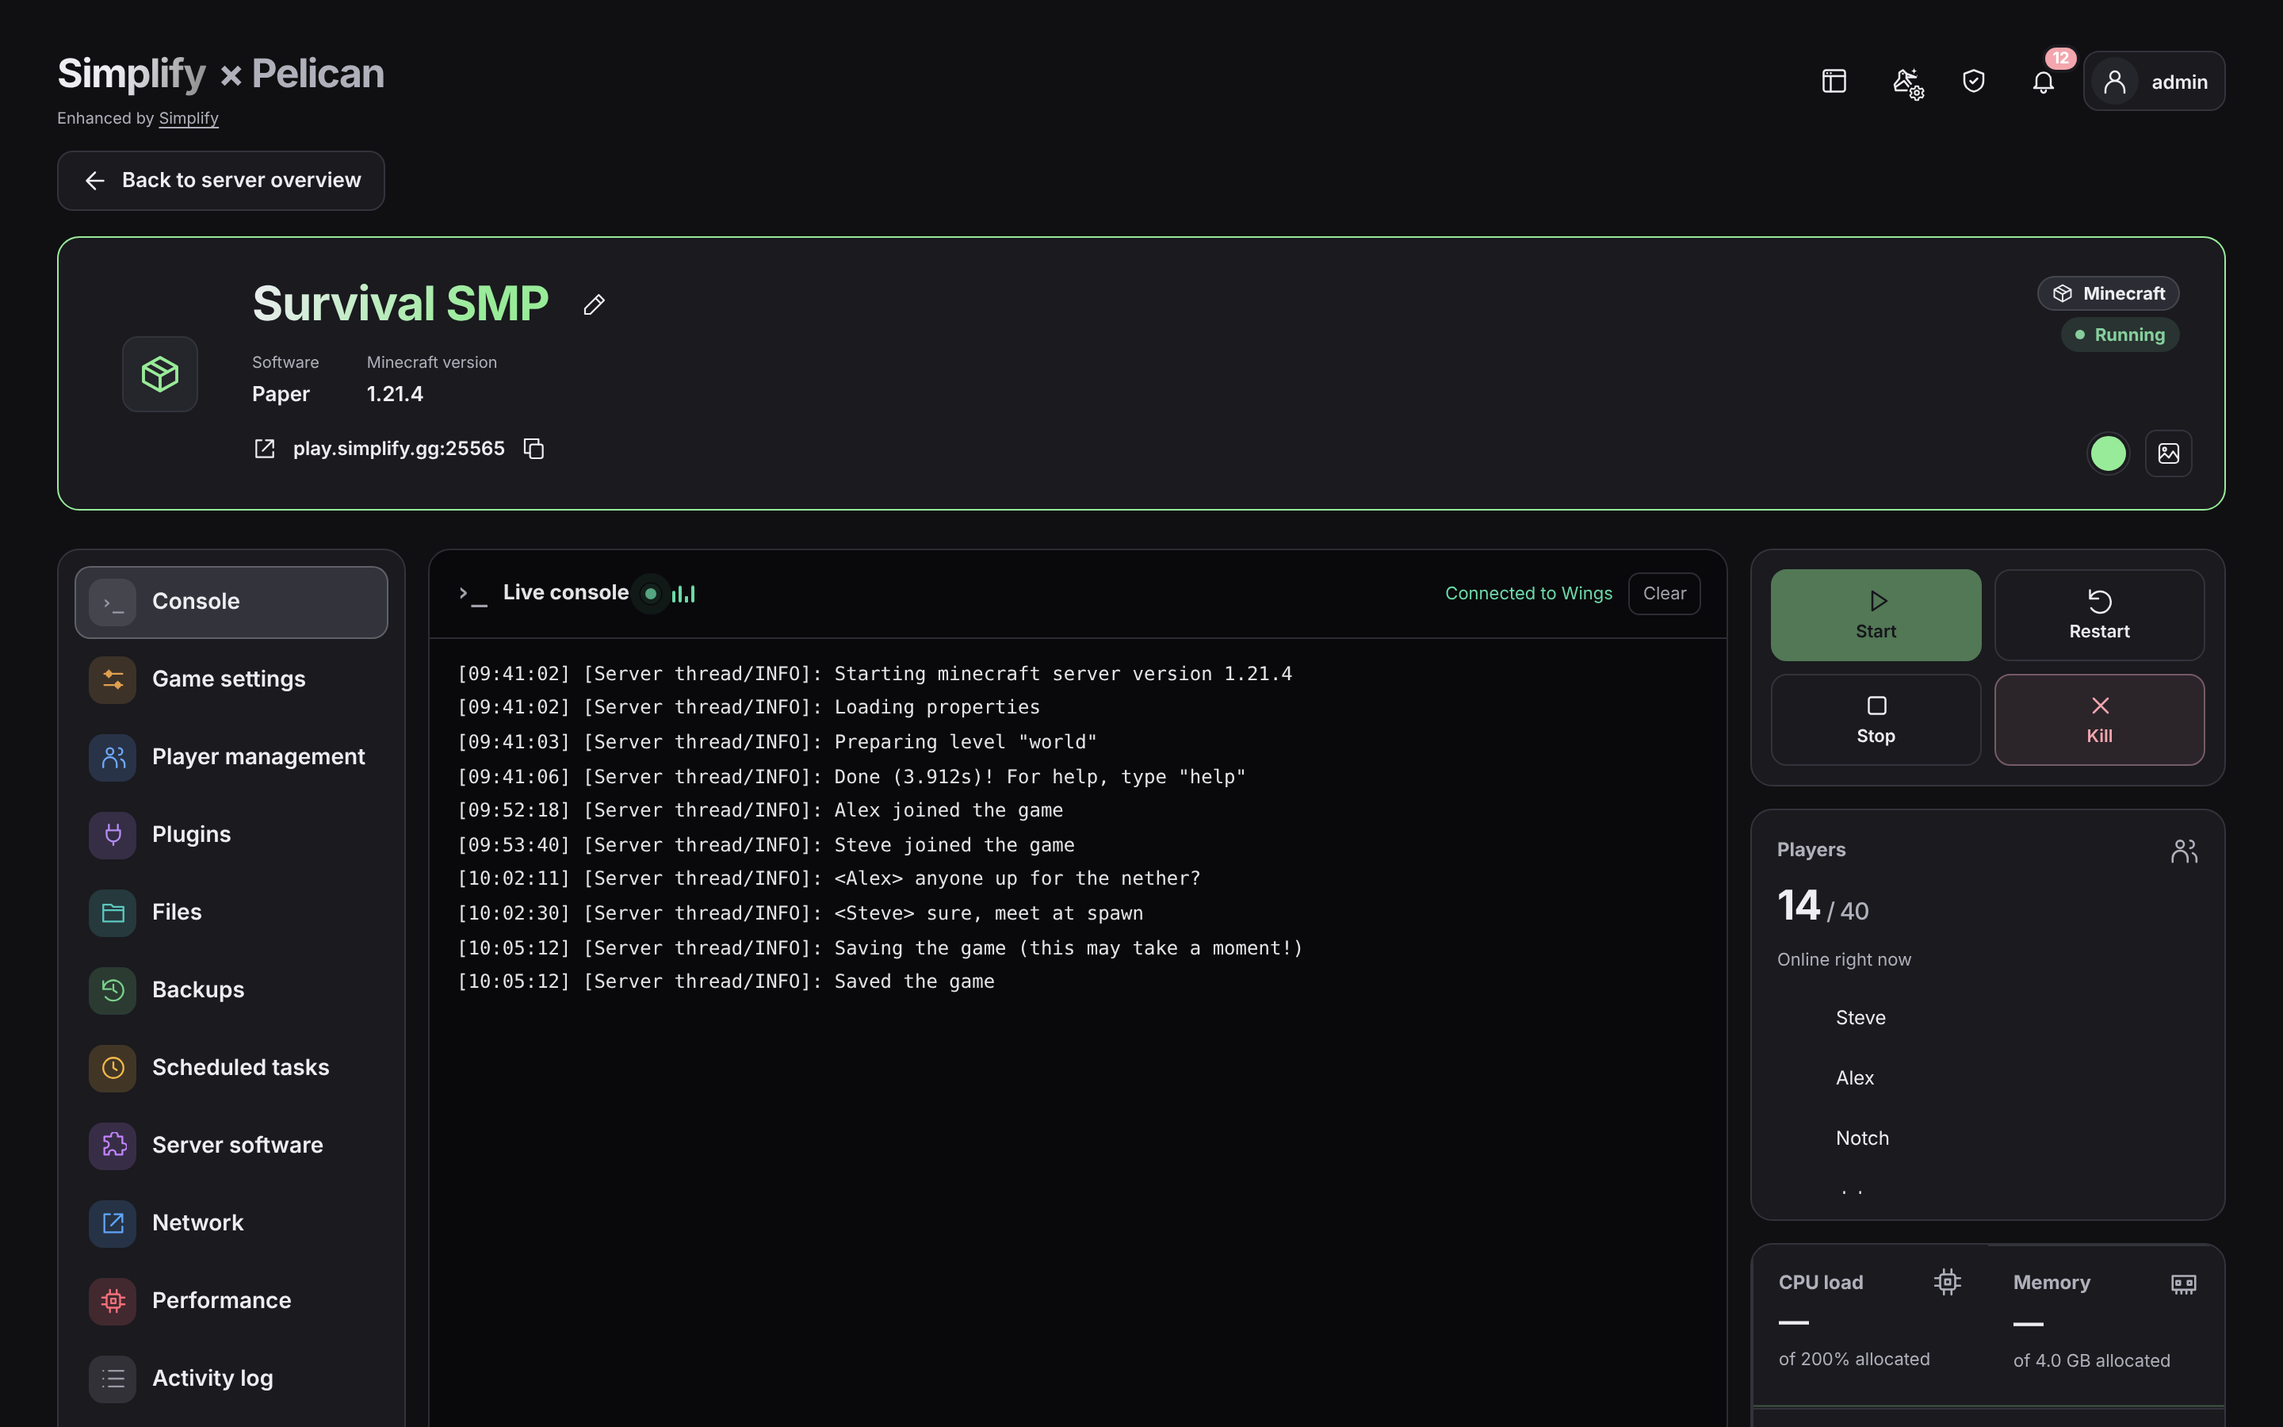
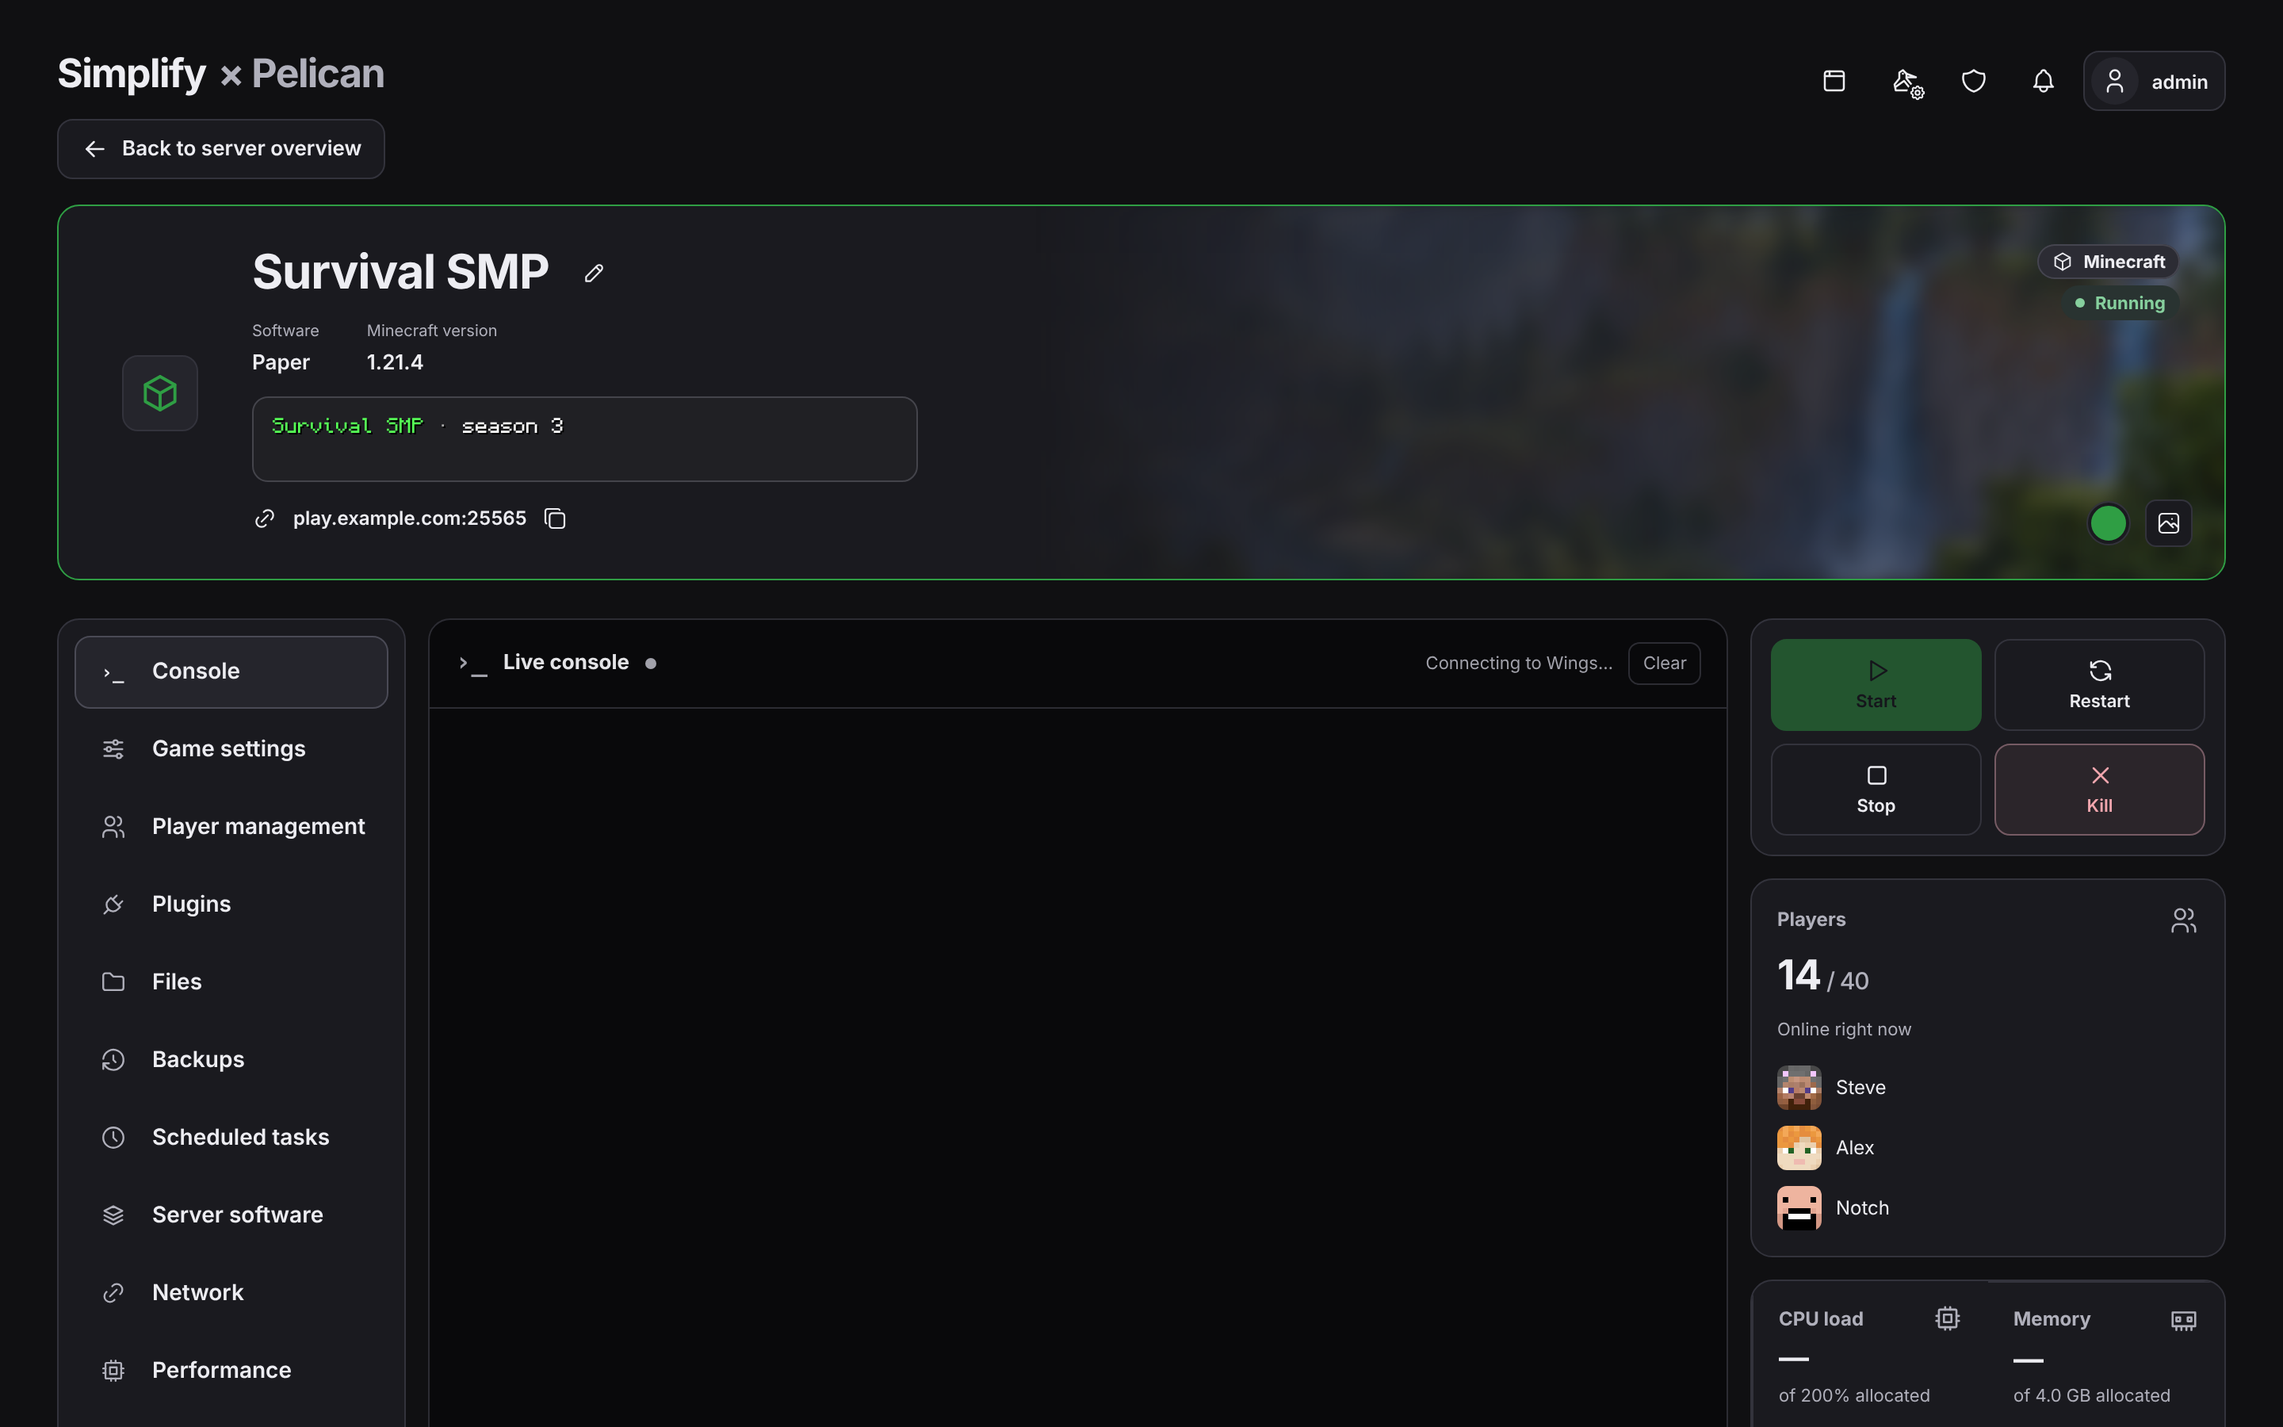
README: plainer text and current screenshots
- "Highlights" becomes "What it does": two short paragraphs instead of a list of bold headings.
- Lists no longer start every item with a bold heading.
- The overview, server page and list screenshots show the current look (0.5.0, with Tabler icons) instead of build 0.3.0-beta.99.

Claude-Session: https://claude.ai/code/session_01FxRvJPegSi1zb6r81NJwmk

diff --git a/README.md b/README.md
@@ -11,23 +11,21 @@ A cleaner, simpler interface for the [Pelican](https://github.com/pelican/panel)
 <a href="docs/screenshots/server-creator.png"><img src="docs/screenshots/server-creator.png" alt="Guided server creation" width="280"></a>
 <a href="docs/screenshots/server-list.png"><img src="docs/screenshots/server-list.png" alt="List view grouped by node" width="280"></a>
 
-## Highlights
+## What it does
 
-- **One overview for all servers:** live status, players, CPU and RAM at a glance, in a grid or list view.
-- **Guided server creation:** pick Minecraft (Vanilla, Paper or a modpack) or search 170+ other games; Simplify picks and installs the right egg.
-- **Simple and host mode:** simple mode suits a few servers. Host mode adds a server list per node and the admin pages side by side, for larger hosts.
-- **Make it yours:** light and dark themes, server colors, banners, and your own logo or styled panel name.
-- **Friends mode, people and roles:** everyone can see every server but only manage their own, and roles set clear permissions and limits.
+Simplify puts all your servers on one page, with their status, players, CPU and RAM, as cards or a list. New servers are made with a step-by-step creator: pick Minecraft (Vanilla, Paper or a modpack) or one of 170+ other games, and Simplify installs the right egg.
+
+For a few servers the simple mode is enough. Larger hosts can switch to host mode, with a server list per node and the admin pages next to it. You can choose a light or dark theme, give servers their own color and banner, and use your own logo or panel name. In friends mode everyone sees every server but only manages their own, and roles decide who may do what.
 
 ## Now in beta (0.5.0-beta.8)
 
 The next release is in beta. It adds Simplify on phones, support for other plugins and a more flexible overview on top of stable 0.4.7. Tested on Pelican 1.0.0-beta38, 1.0.0-rc.1 and 1.0.0-rc.2 with PHP 8.3 to 8.5 (see Compatibility):
 
-- **Simplify on your phone.** The overview, the server page, popups and the server creator are made for small screens: one page that scrolls, compact server rows with one power button, a tab bar at the bottom, a full-height console with quick commands, and popups that slide up as sheets. Pelican's own pages inside Simplify (admin pages, account, server settings) get one column and larger touch targets, and host mode becomes one column with a server switcher. Wider screens do not change.
-- **The panel as an app.** Add the panel to your phone's home screen ("Install app" in the menu): its own icon, full screen without the browser bar, and a clear page when there is no connection. New in 0.5.0-beta.2.
-- **Support for other plugins.** Pages that plugins add for every account (such as Legal Pages or User Creatable Servers) are in the account menu. Widgets that plugins add (such as Player Counter on the server page, or the resource limits of User Creatable Servers above your servers) show up as tiles. A plugin that does part of what Simplify does switches off only that part: with the Subdomains plugin enabled, Simplify's own subdomains step aside instead of the whole dashboard. Buttons that plugins add to Pelican's server list and console (such as Create server from User Creatable Servers, or Upload logs from Mclogs Uploader) show and work in Simplify too. Every plugin page, widget and button can be switched on or off in Simplify settings.
-- **Your overview, your way.** Make your own server groups from the new Server groups button, saved with your account so every device shows them. Choose the server order (Name, Created, Port, or your own order per group), the layout (Cards, the new Compact cards, or List) with 2 to 6 columns and three card widths, quick actions Off, On or on Hover, and a full screen width overview. Phones can pick their own layout. New in 0.5.0-beta.5 to beta.8.
-- **Normal size on every screen.** The interface no longer shrinks on screens below 1440p; it only scales down, never below 75%, when the page would not fit. Long server names use two lines.
+- Simplify on your phone. The overview, the server page, popups and the server creator are made for small screens: one page that scrolls, compact server rows with one power button, a tab bar at the bottom, a full-height console with quick commands, and popups that slide up as sheets. Pelican's own pages inside Simplify (admin pages, account, server settings) get one column and larger touch targets, and host mode becomes one column with a server switcher. Wider screens do not change.
+- The panel as an app. Add the panel to your phone's home screen ("Install app" in the menu): its own icon, full screen without the browser bar, and a clear page when there is no connection. New in 0.5.0-beta.2.
+- Support for other plugins. Pages that plugins add for every account (such as Legal Pages or User Creatable Servers) are in the account menu. Widgets that plugins add (such as Player Counter on the server page, or the resource limits of User Creatable Servers above your servers) show up as tiles. A plugin that does part of what Simplify does switches off only that part: with the Subdomains plugin enabled, Simplify's own subdomains step aside instead of the whole dashboard. Buttons that plugins add to Pelican's server list and console (such as Create server from User Creatable Servers, or Upload logs from Mclogs Uploader) show and work in Simplify too. Every plugin page, widget and button can be switched on or off in Simplify settings.
+- Your overview, your way. Make your own server groups from the new Server groups button, saved with your account so every device shows them. Choose the server order (Name, Created, Port, or your own order per group), the layout (Cards, the new Compact cards, or List) with 2 to 6 columns and three card widths, quick actions Off, On or on Hover, and a full screen width overview. Phones can pick their own layout. New in 0.5.0-beta.5 to beta.8.
+- Normal size on every screen. The interface no longer shrinks on screens below 1440p; it only scales down, never below 75%, when the page would not fit. Long server names use two lines.
 
 **Try it:** in Simplify settings → Plugin manager, choose **Beta** under "Simplify versions"; the plugin manager installs it with a backup and automatic rollback. Or import `https://raw.githubusercontent.com/jerajerajerajera/PelicanSimplify/beta/dist/pelican-simplify-beta-latest.zip`. Betas are less tested than stable releases; see the [beta changelog](https://github.com/jerajerajerajera/PelicanSimplify/blob/beta/CHANGELOG.md) for every change.
 
@@ -35,10 +33,10 @@ The next release is in beta. It adds Simplify on phones, support for other plugi
 
 Simplify is a large change to how your panel looks and works. Please read this first.
 
-- **It replaces a lot of the panel.** The server overview, the server pages and server creation become Simplify's. Optionally it also takes over the Users, Roles and Plugins pages, and admins can use host mode.
-- **Everything can be switched off.** Each part has its own switch in Simplify settings, and you can turn off the whole Simplify dashboard. Pelican's original panel always stays available: the Legacy links in Admin tools lead to it, and even if you hide those links the pages keep working.
-- **It does not touch your running servers.** Servers, eggs, nodes and permissions stay Pelican's own. Simplify is a different way to look at and manage them.
-- **Other plugins are only partly supported inside stable Simplify.** They keep working in Pelican's original panel. Simplify shows their admin and server pages under "External". Their account pages, widgets and buttons are supported in the beta (see Now in beta).
+- It replaces a lot of the panel. The server overview, the server pages and server creation become Simplify's. Optionally it also takes over the Users, Roles and Plugins pages, and admins can use host mode.
+- Everything can be switched off. Each part has its own switch in Simplify settings, and you can turn off the whole Simplify dashboard. Pelican's original panel always stays available: the Legacy links in Admin tools lead to it, and even if you hide those links the pages keep working.
+- It does not touch your running servers. Servers, eggs, nodes and permissions stay Pelican's own. Simplify is a different way to look at and manage them.
+- Other plugins are only partly supported inside stable Simplify. They keep working in Pelican's original panel. Simplify shows their admin and server pages under "External". Their account pages, widgets and buttons are supported in the beta (see Now in beta).
 - **Make a backup before installing**, as with any plugin that changes this much.
 
 ## Getting started
@@ -83,27 +81,27 @@ The order and scope may still change. Everything Simplify does not cover yet is 
 
 Simplify should work together with other Pelican plugins instead of beside them:
 
-- **In beta:** pages from other plugins in the account menu, admin tools and server pages, widgets from plugins as tiles, buttons plugins add to Pelican's server list and console, and overlapping plugins switching off only the matching Simplify part.
-- **Still to come:** installing, updating and switching plugins on or off from Simplify's plugin manager.
+- In beta: pages from other plugins in the account menu, admin tools and server pages, widgets from plugins as tiles, buttons plugins add to Pelican's server list and console, and overlapping plugins switching off only the matching Simplify part.
+- Still to come: installing, updating and switching plugins on or off from Simplify's plugin manager.
 
 Plugin support is also what makes the next step possible: letting Simplify replace the original panel completely.
 
 ### Next up
 
-- **A real phone experience.** In beta: the overview, server page, sheets, creator, Pelican's own pages and host mode built for phones, and the panel installable as an app on your home screen.
-- **A better server page.** A clear status bar at the top, a console that gets the space it needs, workspaces that open inside the page instead of popups, and one place for everything that needs your attention.
-- **Simplify as the whole panel.** An option in setup that makes Simplify the only panel. The original stays reachable under `/legacy`, or switches off entirely when no other plugin needs it.
-- **Clearer server installation.** One clear "setting up…" state until a new server is ready, and the Minecraft EULA accepted up front without a restart loop.
-- **Better server creation for every game.** Recommended resources per game and an install progress card.
-- **Egg settings in the dashboard.** Startup settings for every game, with plain descriptions and checks.
+- A real phone experience. In beta: the overview, server page, sheets, creator, Pelican's own pages and host mode built for phones, and the panel installable as an app on your home screen.
+- A better server page. A clear status bar at the top, a console that gets the space it needs, workspaces that open inside the page instead of popups, and one place for everything that needs your attention.
+- Simplify as the whole panel. An option in setup that makes Simplify the only panel. The original stays reachable under `/legacy`, or switches off entirely when no other plugin needs it.
+- Clearer server installation. One clear "setting up…" state until a new server is ready, and the Minecraft EULA accepted up front without a restart loop.
+- Better server creation for every game. Recommended resources per game and an install progress card.
+- Egg settings in the dashboard. Startup settings for every game, with plain descriptions and checks.
 
 ### Later
 
 - **Alerts** for crashes and servers running out of resources.
-- **Startup fixes:** recognize common startup problems and offer a one-click fix.
-- **Server presets:** save settings once and reuse them for new servers.
-- **Troubleshooting reports:** export diagnostics with all secrets removed, for easier support.
-- **More overview options:** extra information fields. Layouts, columns, card widths, server order and your own groups are in beta.
+- Startup fixes: recognize common startup problems and offer a one-click fix.
+- Server presets: save settings once and reuse them for new servers.
+- Troubleshooting reports: export diagnostics with all secrets removed, for easier support.
+- More overview options: extra information fields. Layouts, columns, card widths, server order and your own groups are in beta.
 
 See the [roadmap](docs/ROADMAP.md) for details.
 
@@ -119,15 +117,15 @@ Items marked *(Pelican)* are existing Pelican or Wings features that Simplify sh
 - Filter by game; servers grouped by node when there is more than one
 - Quick start, stop and restart buttons on each server
 - Health panel per node: CPU, RAM, disk and network, with a warning when something is wrong
-- **Host mode:** a server list per node, the admin pages in the middle, and servers that open next to the list
+- Host mode: a server list per node, the admin pages in the middle, and servers that open next to the list
 
 </details>
 
 <details>
 <summary><strong>Creating servers</strong></summary>
 
-- **Easy Minecraft server creator:** a step-by-step wizard for Vanilla, Paper and modpacks (Modrinth, CurseForge, FTB and Technic)
-- **Easy server creator:** search 170+ games from the official Pelican eggs; missing eggs are installed automatically
+- Easy Minecraft server creator: a step-by-step wizard for Vanilla, Paper and modpacks (Modrinth, CurseForge, FTB and Technic)
+- Easy server creator: search 170+ games from the official Pelican eggs; missing eggs are installed automatically
 - Steam banners and icons for games, and automatic Steam game server tokens for games that need one
 - Resource presets, per-user limits, a name generator *(Pelican)*, and server color and icon choice
 - Drafts are saved automatically and can be discarded
@@ -173,8 +171,8 @@ Items marked *(Pelican)* are existing Pelican or Wings features that Simplify sh
 <details>
 <summary><strong>People, access and settings</strong></summary>
 
-- **Friends mode:** see all servers, manage only your own or the ones shared with you *(Pelican permissions)*
-- **People & roles:** add people with an email invite, and create roles with Simplify permissions, limits and admin access
+- Friends mode: see all servers, manage only your own or the ones shared with you *(Pelican permissions)*
+- People & roles: add people with an email invite, and create roles with Simplify permissions, limits and admin access
 - Switch individual features on or off for users: files, backups, schedules, players, plugins and more
 - Optional self-service server creation, with limits per role or per person
 - Steam account on the profile page for game server tokens
